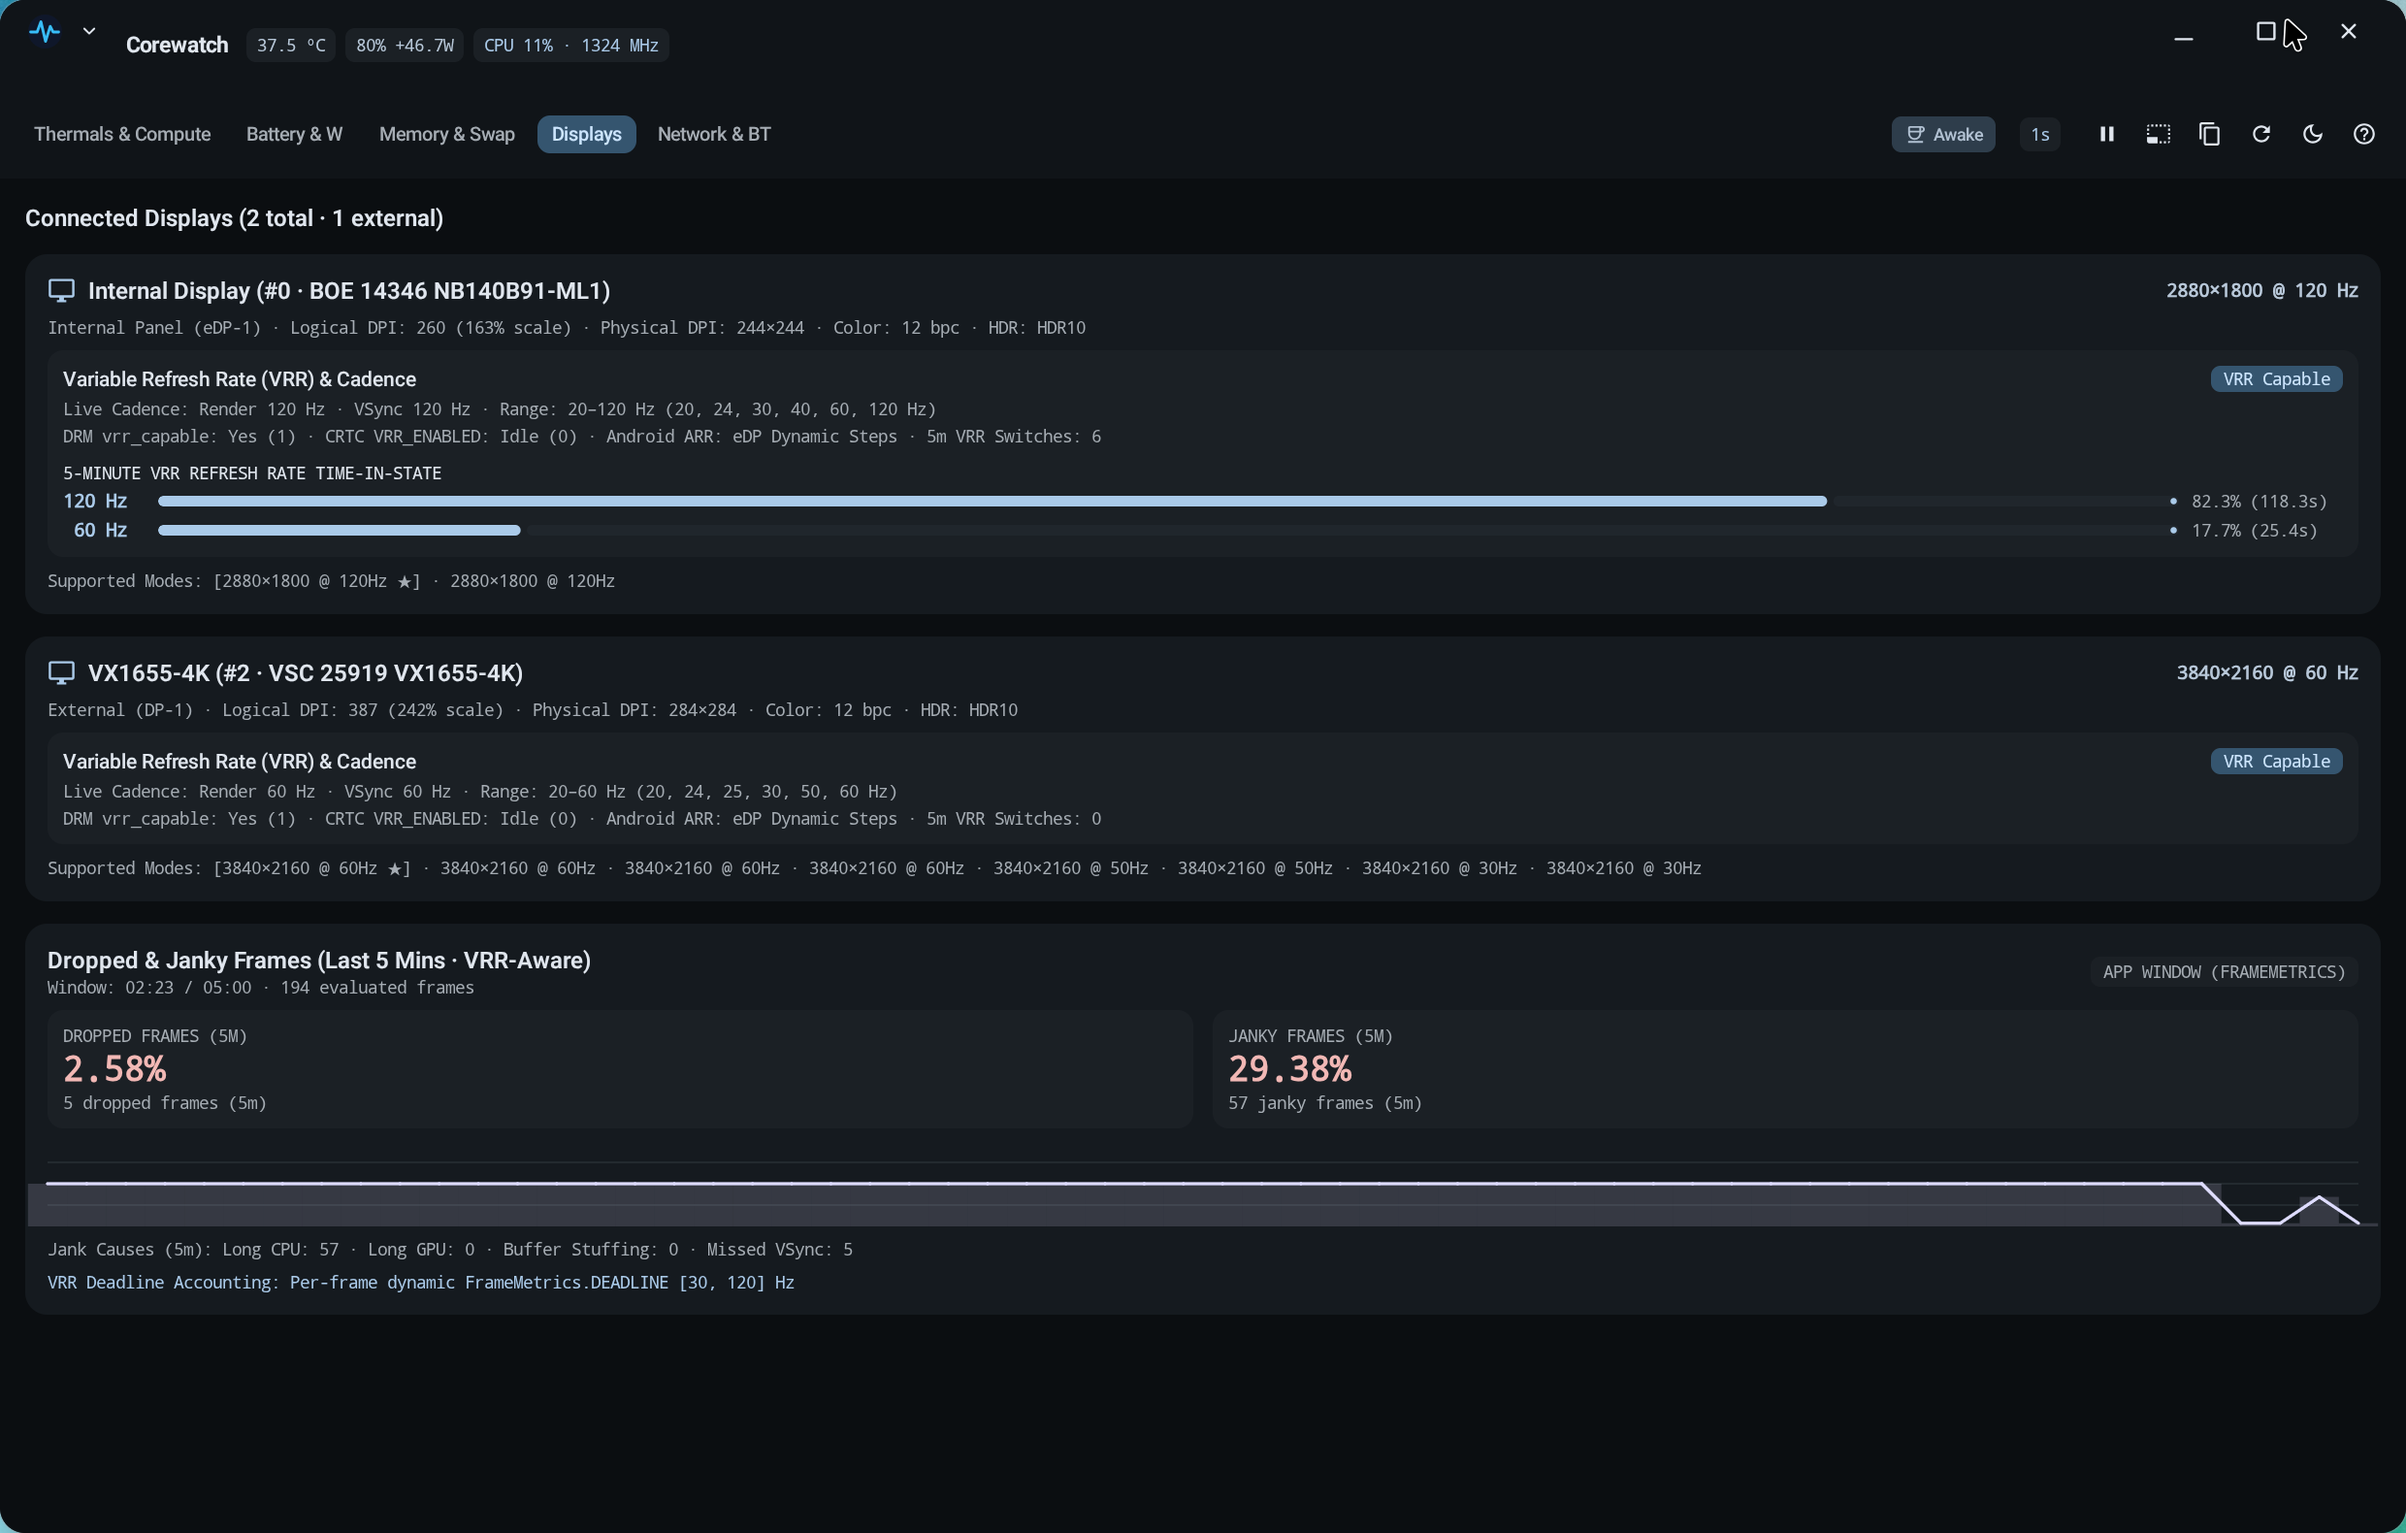
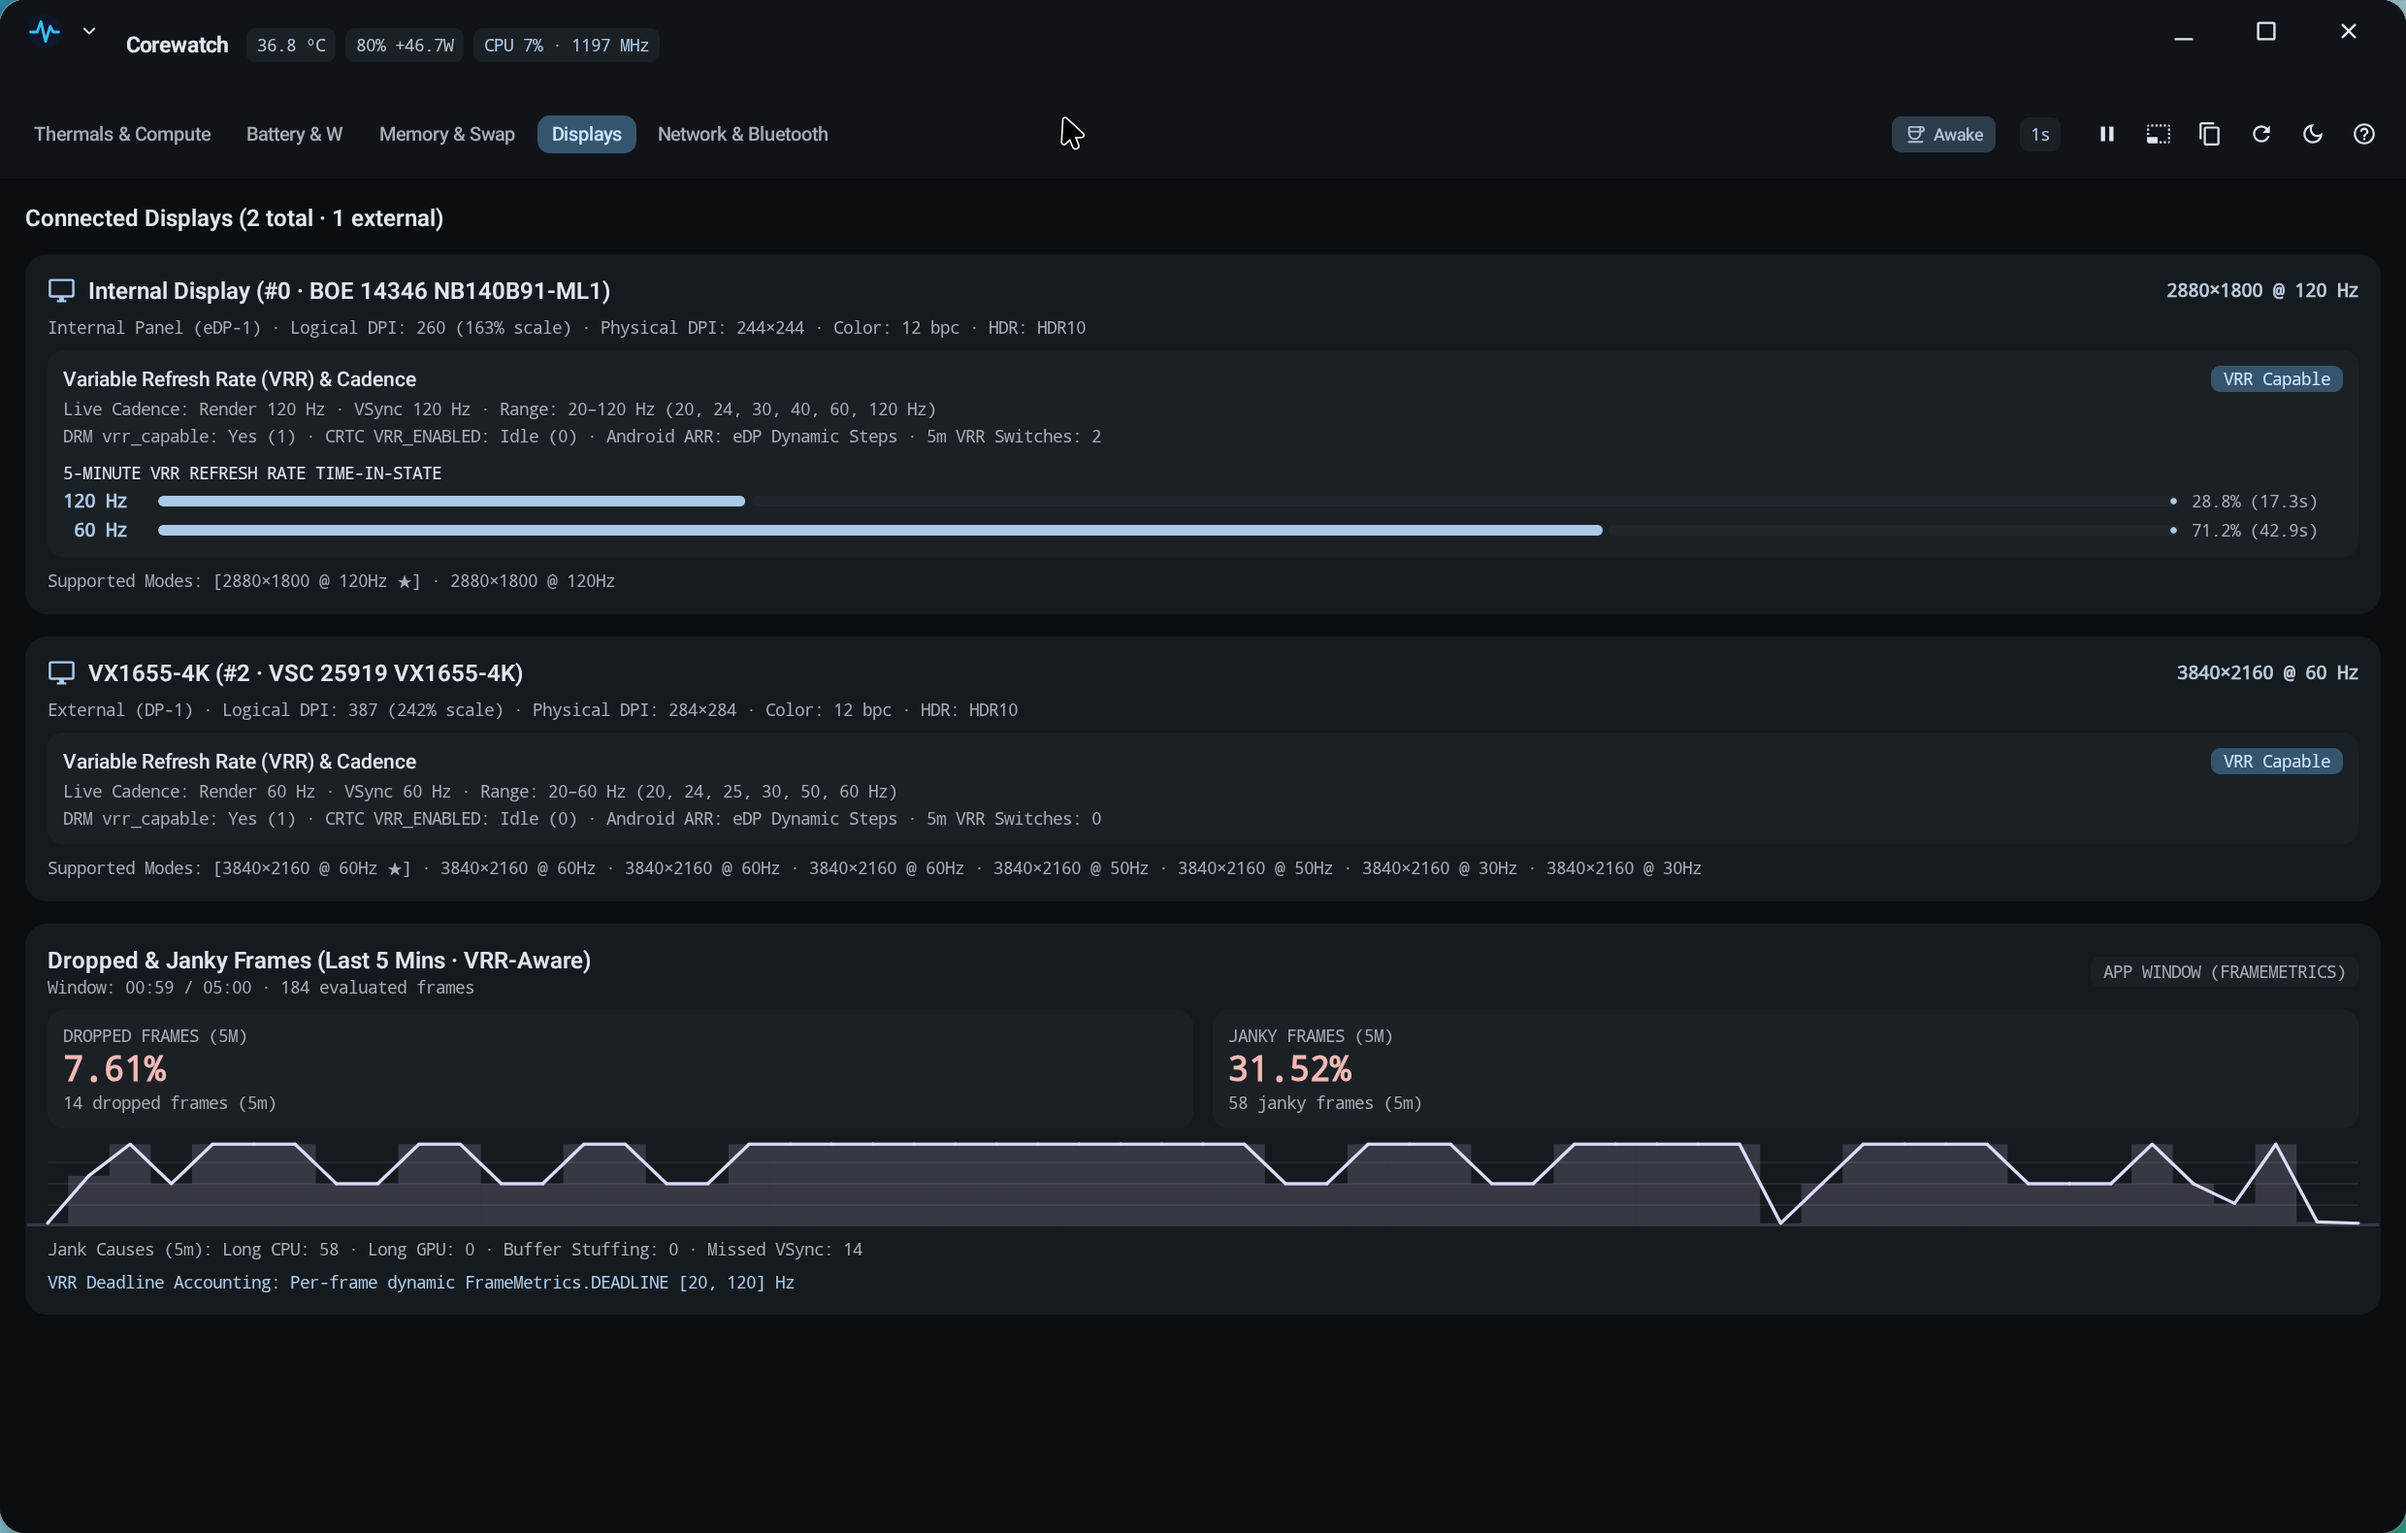
Spell out Bluetooth in tab labels, status strings, and documentation

diff --git a/app/src/main/kotlin/com/droid/corewatch/ui/CorewatchAppRoot.kt b/app/src/main/kotlin/com/droid/corewatch/ui/CorewatchAppRoot.kt
@@ -327,7 +327,7 @@ internal fun CorewatchTitleBar(state: CorewatchUiState, vm: CorewatchViewModel, 
         // or when the caption width is narrow, preventing Embedded{Caption} pointer-stealing and minimize-button overlap.
         val splitTwoRowHeader = hasDesktopCaption || usableCaptionWidth < 520.dp
         val showBrandText = usableCaptionWidth >= 560.dp || cap.start == 0.dp || splitTwoRowHeader
-        val useFullTabTitles = if (splitTwoRowHeader) totalWidth >= 720.dp else usableCaptionWidth >= 760.dp
+        val useFullTabTitles = if (splitTwoRowHeader) totalWidth >= 780.dp else usableCaptionWidth >= 820.dp
         val showWattagePill = usableCaptionWidth >= 820.dp || splitTwoRowHeader
         val showThermalPill = usableCaptionWidth >= 420.dp || splitTwoRowHeader
         val showCaffeineLabel = if (splitTwoRowHeader) totalWidth >= 560.dp else usableCaptionWidth >= 640.dp
@@ -2436,7 +2436,7 @@ private fun DisplayCard(disp: DisplaySpec) {
 private fun ShortcutsDialog(onDismiss: () -> Unit) {
     val shortcuts = listOf(
         "Ctrl+M" to "Toggle between Full Workbench and Compact Mini-HUD mode",
-        "Ctrl+1 .. Ctrl+5" to "Switch tabs (Compute, Battery, Memory, Display(s), Network & BT)",
+        "Ctrl+1 .. Ctrl+5" to "Switch tabs (Compute, Battery, Memory, Display(s), Network & Bluetooth)",
         "Ctrl+K" to "Toggle Caffeine Keep-Awake active state",
         "Space" to "Pause / Resume live telemetry graph scrolling",
         "Ctrl+Shift+C" to "Copy Markdown Hardware & Thermal Diagnostic Snapshot",

diff --git a/app/src/main/kotlin/com/droid/corewatch/data/TelemetryCollector.kt b/app/src/main/kotlin/com/droid/corewatch/data/TelemetryCollector.kt
@@ -779,13 +779,13 @@ class TelemetryCollector(
             AudioDeviceInfo.TYPE_BLE_HEADSET, AudioDeviceInfo.TYPE_BLE_SPEAKER, AudioDeviceInfo.TYPE_BLE_BROADCAST -> "LC3 (LE Audio)"
             AudioDeviceInfo.TYPE_BLUETOOTH_SCO -> "mSBC / CVSD (HFP Voice)"
             AudioDeviceInfo.TYPE_BLUETOOTH_A2DP -> "A2DP Audio Stream"
-            else -> "None (No Active BT Audio)"
+            else -> "None (No Active Bluetooth Audio)"
         }
         var sampleRateStr = String.format(java.util.Locale.US, "%.1f kHz", defaultRateHz / 1_000.0)
         var bitsStr = "24-bit"
         var channelStr = "Stereo"
         var qualityStr = if (btOutput != null) "Active Stream" else "Idle"
-        var selectableSummary = "Connect BT headphones to inspect"
+        var selectableSummary = "Connect Bluetooth headphones to inspect"
 
         if (adapter == null) {
             return BluetoothTelemetrySnapshot(
@@ -977,7 +977,7 @@ class TelemetryCollector(
             }
         }
 
-        if (selectableSummary == "Connect BT headphones to inspect") {
+        if (selectableSummary == "Connect Bluetooth headphones to inspect") {
             val activeAudio = peripherals.firstOrNull { it.isConnected && it.categoryLabel.contains("Audio") }
             val pairedAudio = peripherals.firstOrNull { it.categoryLabel.contains("Audio") }
             if (activeAudio != null) {

diff --git a/app/src/test/kotlin/com/droid/corewatch/ui/CorewatchUiTest.kt b/app/src/test/kotlin/com/droid/corewatch/ui/CorewatchUiTest.kt
@@ -92,7 +92,7 @@ class CorewatchUiTest {
         composeRule.onNodeWithText("Internal User Storage (/data)").assertIsDisplayed()
         composeRule.onNodeWithTag("lmkd_monitor_card").assertIsDisplayed()
 
-        // 4. Switch to Tab 4 (Display / Displays) and Tab 5 (Network & BT)
+        // 4. Switch to Tab 4 (Display / Displays) and Tab 5 (Network & Bluetooth)
         assertEquals("Display", CorewatchTab.Displays.labelForDisplayCount(1, compact = false))
         assertEquals("Displays", CorewatchTab.Displays.labelForDisplayCount(2, compact = false))
         composeRule.onNodeWithTag("tab_3").performClick()
@@ -252,7 +252,7 @@ class CorewatchUiTest {
         }
 
         // At 758dp window width with desktop caption insets (usableCaptionWidth = 473dp),
-        // all 5 compact tabs ("CPU", "Battery", "Memory", "Display(s)", "Net & BT") must be visible and clickable
+        // all 5 compact tabs ("CPU", "Battery", "Memory", "Display(s)", "Net & Bluetooth") must be visible and clickable
         composeRule.onNodeWithTag("btn_copy_markdown").performClick()
         assertTrue(vm.state.value.statusBanner!!.contains("Copied Markdown"))
         composeRule.onNodeWithTag("tab_1").assertIsDisplayed().performClick()

diff --git a/app/src/main/kotlin/com/droid/corewatch/ui/CorewatchViewModel.kt b/app/src/main/kotlin/com/droid/corewatch/ui/CorewatchViewModel.kt
@@ -38,7 +38,7 @@ enum class CorewatchTab(
     BatteryPower(1, "Battery & W", "Battery", "Battery & Power", "Ctrl+2"),
     MemoryStorage(2, "Memory & Swap", "Memory", "Memory & Storage", "Ctrl+3"),
     Displays(3, "Display", "Display", "Displays", "Ctrl+4"),
-    NetworkBluetooth(4, "Network & BT", "Net & BT", "Network & Bluetooth", "Ctrl+5");
+    NetworkBluetooth(4, "Network & Bluetooth", "Net & Bluetooth", "Network & Bluetooth", "Ctrl+5");
 
     fun labelForDisplayCount(displayCount: Int, compact: Boolean): String = when (this) {
         Displays -> if (displayCount > 1) "Displays" else "Display"

diff --git a/app/src/main/kotlin/com/droid/corewatch/data/WirelessTelemetryModels.kt b/app/src/main/kotlin/com/droid/corewatch/data/WirelessTelemetryModels.kt
@@ -61,7 +61,7 @@ data class WifiTelemetrySnapshot(
  */
 data class BluetoothAudioCodecSnapshot(
     val activeRouteLabel: String = "Built-in Speaker",
-    val activeCodecName: String = "None (No Active BT Audio)",
+    val activeCodecName: String = "None (No Active Bluetooth Audio)",
     val sampleRateLabel: String = "48.0 kHz",
     val bitsPerSampleLabel: String = "24-bit",
     val channelModeLabel: String = "Stereo",

diff --git a/README.md b/README.md
@@ -48,7 +48,7 @@
 **Corewatch** (`com.droid.corewatch`) brings the high-density hardware telemetry of **macOS Activity Monitor / iStat Menus**, **CoconutBattery**, and **Amphetamine** to Android laptops and Googlebooks. Built in modern Kotlin with Jetpack Compose and Material 3, Corewatch gives power users instant visibility into thermal headroom, per-core CPU frequencies, GPU & NPU hardware accelerators, USB-C PD charging wattage, memory/`zram` swap pressure, and external monitor negotiation—without oversized mobile typography:
 
 * **Dual-layout desktop UI & Translucent Always-On-Top PiP Mini-HUD (`Ctrl+M`):**
-  * **Full Workbench (`1120dp × 760dp`):** Live thermal/wattage/CPU telemetry badges drawn directly into Android 15's desktop caption bar with five diagnostic tabs (`Thermals & Compute`, `Battery & W`, `Memory & Swap`, dynamically singular/plural `Display` / `Displays`, and `Network & BT`), a **configurable polling rate selector (`250ms | 500ms | 1s | 2s`)**, and quick actions immediately below.
+  * **Full Workbench (`1120dp × 760dp`):** Live thermal/wattage/CPU telemetry badges drawn directly into Android 15's desktop caption bar with five diagnostic tabs (`Thermals & Compute`, `Battery & W`, `Memory & Swap`, dynamically singular/plural `Display` / `Displays`, and `Network & Bluetooth`), a **configurable polling rate selector (`250ms | 500ms | 1s | 2s`)**, and quick actions immediately below.
   * **Translucent Always-On-Top Mini-HUD (`340dp × 398dp`):** Ultra-dense floating Picture-in-Picture (`TYPE_APPLICATION_OVERLAY`) 5-tile sparkline dashboard (**CPU**, **GPU & NPU**, **Thermal**, **Battery**, and **RAM & `zram` Swap**) with **adjustable translucency (`88%` / `75%` / `100%`)**, drag-to-reposition header, and one-click `"↗ Full"` restore, using crisp `11sp`/`12sp` tabular monospace typography (`fontFeatureSettings = "tnum"`).
 * **Thermal, per-core CPU, GPU & NPU hardware accelerator telemetry:**
   * Displays real-time **Thermal Status** (`Nominal`, `Light Throttling`, `Moderate Throttling`, `Severe Throttling`, `Critical Thermal`), predictive **Thermal Headroom** (`PowerManager.getThermalHeadroom(10)`), battery temperature (`°C` / `°F`), and world-readable `/sys/class/thermal/` and `/sys/class/hwmon/` sensors.
@@ -126,9 +126,9 @@ Mobile system monitor apps were designed for narrow portrait phone screens with 
 </p>
 
 <p align="center">
-  <img src="docs/images/workbench_network_bt.png" width="900" alt="Corewatch Network & BT tab showing Wi-Fi 7 (802.11be) link state, RSSI -41 dBm, TX/RX PHY speeds, MAC frame retry/drop counters, Network Throughput, and Bluetooth Audio Codec & Peripherals with battery level" />
+  <img src="docs/images/workbench_network_bt.png" width="900" alt="Corewatch Network & Bluetooth tab showing Wi-Fi 7 (802.11be) link state, RSSI -39 dBm, TX/RX PHY speeds, MAC frame retry/drop counters, Network Throughput, and Bluetooth Audio Codec & Peripherals with battery level" />
   <br>
-  <sub><b>Network &amp; BT</b> tab showing live <b>Wi-Fi 7 (802.11be)</b> link state (RSSI <code>-41 dBm</code>, <code>5 GHz · Ch 149</code>, <code>WPA3-SAE</code>, TX/RX PHY link speeds, MAC frame retry/drop counters), <b>TrafficStats RX/TX</b> packet rates, and <b>Bluetooth Audio Codec &amp; Peripherals</b>.</sub>
+  <sub><b>Network &amp; Bluetooth</b> tab showing live <b>Wi-Fi 7 (802.11be)</b> link state (RSSI <code>-39 dBm</code>, <code>5 GHz · Ch 149</code>, <code>WPA3-SAE</code>, TX/RX PHY link speeds, MAC frame retry/drop counters), <b>TrafficStats RX/TX</b> packet rates, and <b>Bluetooth Audio Codec &amp; Peripherals</b>.</sub>
 </p>
 
 ---
@@ -138,7 +138,7 @@ Mobile system monitor apps were designed for narrow portrait phone screens with 
 | Shortcut | Action |
 | :--- | :--- |
 | `Ctrl+M` | Toggle between **Full Workbench** and **Compact Mini-HUD** mode |
-| `Ctrl+1` .. `Ctrl+5` | Switch tabs: `1` Thermals & Compute, `2` Battery & Power, `3` Memory & Storage, `4` Display(s), `5` Network & BT |
+| `Ctrl+1` .. `Ctrl+5` | Switch tabs: `1` Thermals & Compute, `2` Battery & Power, `3` Memory & Storage, `4` Display(s), `5` Network & Bluetooth |
 | `Ctrl+K` | Toggle **Caffeine Keep-Awake** active state (`Off` ↔ `Indefinite`) |
 | `Space` | Pause / Resume live telemetry sampling and graph scrolling to inspect a spike |
 | `Ctrl+Shift+C` | Copy anonymized Markdown System & Thermal Diagnostic Snapshot to clipboard |
